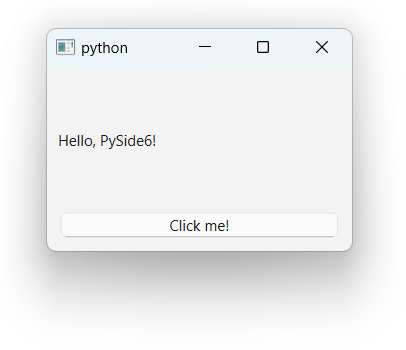
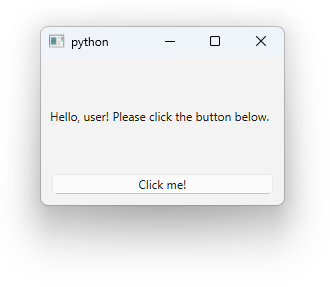
added code highlighting to the 'simple_gui.py'

Changed region(s): [[0.1212, 0.0557, 0.8788, 0.7247], [0.0909, 0.3066, 0.8182, 0.6969]]

diff --git a/docs/tutorial/css/hl_color.css b/docs/tutorial/css/hl_color.css
@@ -1,0 +1,4 @@
+:root > * {
+    --md-code-hl-color: #11ac1181;
+    --md-code-hl-color--light: #b2ffb21e;
+  }

diff --git a/test.py b/test.py
@@ -15,7 +15,7 @@ central_widget.setLayout(vbox)
 
 # Creating a button and a label
 label = QtWidgets.QLabel()
-label.setText("Hello, PySide6!")
+label.setText("Hello, user! Please click the button below.")
 button = QtWidgets.QPushButton()
 button.setText("Click me!")
 

diff --git a/docs/tutorial/adding_widgets_to_a_window.md b/docs/tutorial/adding_widgets_to_a_window.md
@@ -4,9 +4,9 @@ To add widgets to the window, we need to create the widgets and set their proper
 
 ## Adding a layout
 
-First we need to keep in mind that every [`QMainWindow`](../../QtWidgets/QMainWindow) has to have a central widget. This can simply be a [`QWidget`](../../QtWidgets/QWidget) object. Next, we will add a layout to the central widget. A layout is a container that manages the position of child widgets. In this case, we will use a [`QVBoxLayout`](../../QtWidgets/QVBoxLayout) to manage the position of widgets in our window:
+First we need to keep in mind that every [`QMainWindow`](../../QtWidgets/QMainWindow) has to have a central widget. This can simply be a [`QWidget`](../../QtWidgets/QWidget) object. Next, we will add a layout to the central widget. A layout is a container that manages the position of child widgets. In this case, we will use a [`QVBoxLayout`](../../QtWidgets/QVBoxLayout) to manage the position of widgets in our window. The newly added code is highlighted below:
 
-```python title="simple_gui.py"
+```python title="simple_gui.py" hl_lines="8-14" linenums="1"
 
 import PySide6.QtWidgets as QtWidgets
 from PySide6.QtCore import Slot
@@ -45,7 +45,7 @@ label = QtWidgets.QLabel()
 label.setText("Hello, PySide6!")
 ```
 
-If we simply add the above code to `simple_gui.py`, the button and label will not be visible. This is because we have not added them to the layout. To add the button and label to the layout, we can use the `addWidget()` method of the layout:
+If we simply add the above code to `simple_gui.py`, the button and label will not be visible. This is because we have not added them to the layout. To add the button and label to the layout, we can use the `#!python addWidget()` method of the layout:
 
 ```python
 vbox.addWidget(button)	
@@ -54,7 +54,7 @@ vbox.addWidget(label)
 
 Let's add this code to `simple_gui.py` and see how the window looks:
 
-```python title="simple_gui.py"
+```python title="simple_gui.py" hl_lines="16-24" linenums="1"
 
 import PySide6.QtWidgets as QtWidgets
 from PySide6.QtCore import Slot
@@ -73,7 +73,7 @@ central_widget.setLayout(vbox)
 
 # Creating a button and a label
 label = QtWidgets.QLabel()
-label.setText("Hello, PySide6!")
+label.setText("Hello, User! Please click the button.")
 button = QtWidgets.QPushButton()
 button.setText("Click me!")
 
@@ -86,7 +86,7 @@ app.exec()
 
 ```
 
-Running the above code will show a window with a label with a button that does absolutely nothing when clicked: 
+Running the above code will show a window with a label with a button that does absolutely nothing when clicked (which we will fix in the next step :fontawesome-regular-face-laugh-wink:).
 
 <img src="../images/button_and_label.png" alt="Button and label" width="300">
 

diff --git a/docs/QtWidgets/index.md b/docs/QtWidgets/index.md
@@ -4,26 +4,23 @@ hide:
   - footer
 ---
 
-In this API Reference we will cover relevant classes and functions which are part of the `QtWidgets` module. The `QtWidgets` module contains classes that provide a set of UI elements to create classic desktop-style graphical user interfaces. The `QWidget` class is the base class for all UI objects, and the `QLayout` class is the base class for all layout objects. 
+In this API Reference we will cover relevant classes and functions which are part of the `QtWidgets` module. The `QtWidgets` module contains classes that provide a set of UI elements to create classic desktop-style graphical user interfaces. The `QWidget` class is the base class for all UI objects, and the `QLayout` class is the base class for all layout objects. An overview of the classes and functions in the `QtWidgets` module is provided below:
 
 <hr>
 
-The `QtWidgets` module contains the following classes:
-<br>
-<br>
+## All classes from the `QtWidgets` module:
 
-- [`QApplication`](QApplication.md): Manages the GUI application's control flow and main settings.
-- [`QMainWindow`](QMainWindow.md): Provides a framework for building an application's user interface.
-<br></br>
+  - [`QApplication`](QApplication.md): Manages the GUI application's control flow and main settings.
+  - [`QMainWindow`](QMainWindow.md): Provides a framework for building an application's user interface.
 
-- Derived from [`QLayout`](QLayout.md):
+- ### Derived from [`QLayout`](QLayout.md):
     - [`QHBoxLayout`](QHBoxLayout.md): Manages a horizontal layout of widgets. 
     - [`QVBoxLayout`](QVBoxLayout.md): Manages a vertical layout of other widgets. 
-    - [`QGroupBox`](QGroupBox.md):
-<br></br>
+    - [`QGroupBox`](QGroupBox.md): 
 
-- Derived from [`QWidget`](QWidget.md):
-    - [`QTextEdit`](QTextEdit.md):
+
+- ### Derived from [`QWidget`](QWidget.md):
+    - [`QTextEdit`](QTextEdit.md): A widget that displays text and allows the user to edit it.
     - [`QCheckBox`](QCheckBox.md): A toggle button with a checkbox indicator.  
     - [`QLabel`](QLabel.md): A widget that displays text.
     - [`QComboBox`](QComboBox.md): A widget that allows the user to choose from a list of options. 

diff --git a/docs/index.md b/docs/index.md
@@ -30,14 +30,14 @@ ul li::marker {
 <table style = "border: none; border_spacing: 0;">
   <tr>
     <td style="padding-right: 150px;">
-      <span> <h2>Getting started</h2></span>
+      <span> <h2>Getting started &#128640; </h2></span>
       <ul>
         <li><span class="font-item">&nbsp <a href="Installation_Guide">Install Pyside6 </a></span></li>
         <li><span class="font-item">&nbsp <a href="Tutorial"> Tutorial </a></span></li>
       </ul>
     </td>
     <td style="padding-right: 20px;">
-      <span> <h2>Documentation</h2></span>
+      <span> <h2>Documentation &#128218; </h2></span>
       <ul>
         <li><span class="font-item">&nbsp <a href="QtWidgets">API reference</a></span></li>
       </ul>

diff --git a/docs/tutorial/creating_a_simple_window.md b/docs/tutorial/creating_a_simple_window.md
@@ -5,7 +5,7 @@ hide:
 
 If we want to create an empty window, we need two ingredients: a [`QApplication`](../../QtWidgets/QApplication) object and a [`QMainWindow`](../../QtWidgets/QMainWindow) object. The `QApplication` object manages the GUI application's control flow and main settings, while the `QMainWindow` object provides the framework for building an application's user interface. 
 
-```python title="simple_gui.py"
+```python title="simple_gui.py" linenums="1" hl_lines="5-8"
 import PySide6.QtWidgets as QtWidgets
 from PySide6.QtCore import Slot
 

diff --git a/docs/QtWidgets/QDoubleSpinBox.md b/docs/QtWidgets/QDoubleSpinBox.md
@@ -1,3 +1,8 @@
+---
+hide:
+  - footer
+---
+
 ::: QtWidgets.QDoubleSpinBox
     options:
         show_source: false

diff --git a/docs/QtWidgets/QApplication.md b/docs/QtWidgets/QApplication.md
@@ -1,3 +1,8 @@
+---
+hide:
+  - footer
+---
+
 ::: QtWidgets.QApplication
     options:
         show_source: false

diff --git a/docs/QtWidgets/QHBoxLayout.md b/docs/QtWidgets/QHBoxLayout.md
@@ -1,3 +1,8 @@
+---
+hide:
+  - footer
+---
+
 ::: QtWidgets.QHBoxLayout
     options:
         show_source: false

diff --git a/docs/QtWidgets/QMainWindow.md b/docs/QtWidgets/QMainWindow.md
@@ -1,3 +1,8 @@
+---
+hide:
+  - footer
+---
+
 ::: QtWidgets.QMainWindow
     options:
         show_source: false

diff --git a/docs/QtWidgets/QPushButton.md b/docs/QtWidgets/QPushButton.md
@@ -1,3 +1,8 @@
+---
+hide:
+  - footer
+---
+
 ::: QtWidgets.QPushButton
     options:
         show_source: false

diff --git a/docs/QtWidgets/QCheckBox.md b/docs/QtWidgets/QCheckBox.md
@@ -1,3 +1,8 @@
+---
+hide:
+  - footer
+---
+
 ::: QtWidgets.QCheckBox
     options:
         show_source: false
